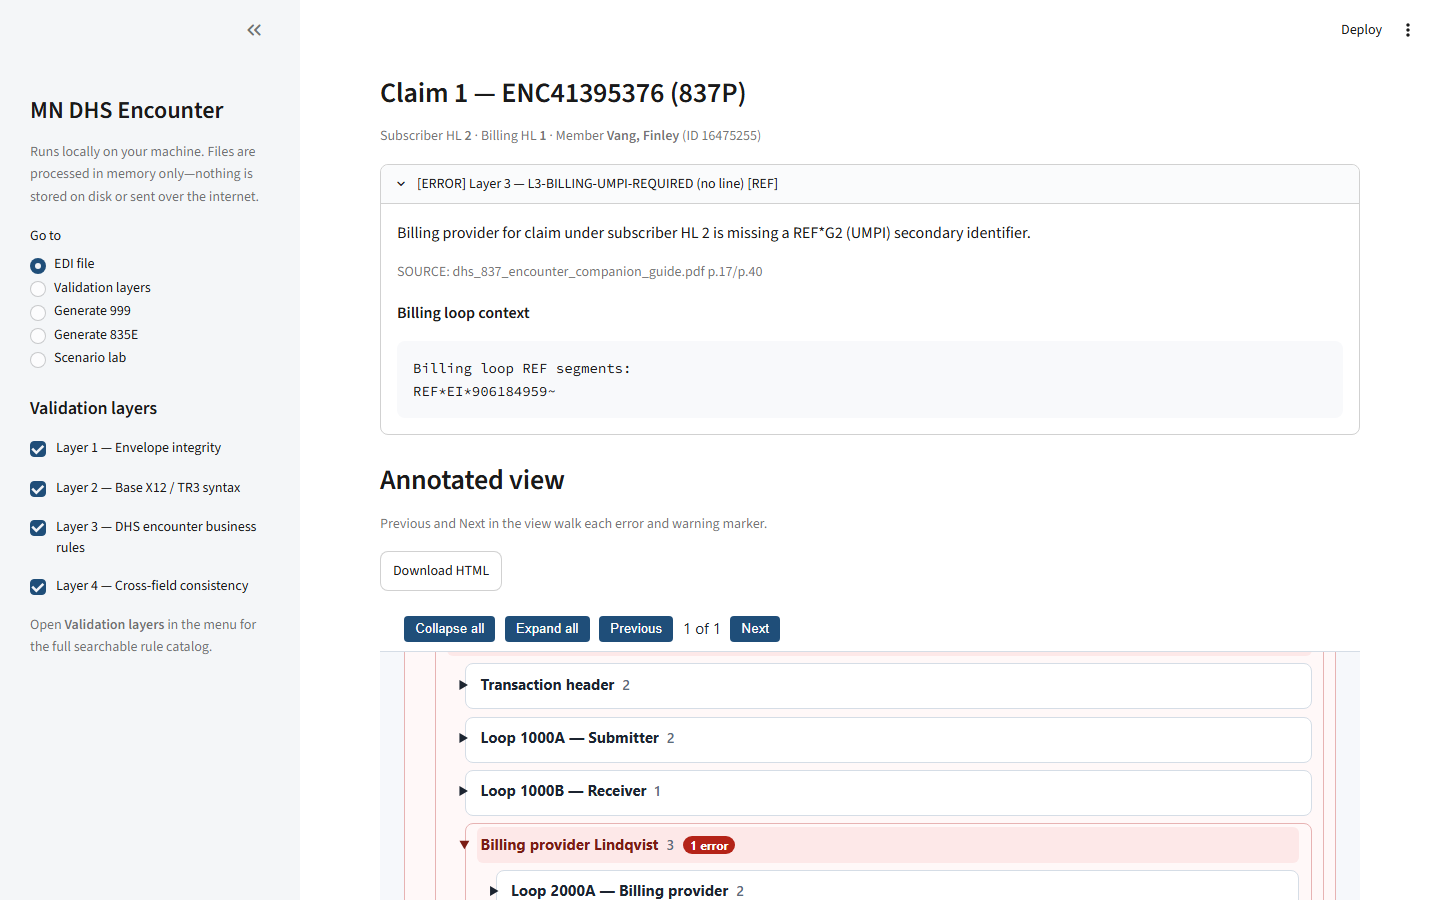
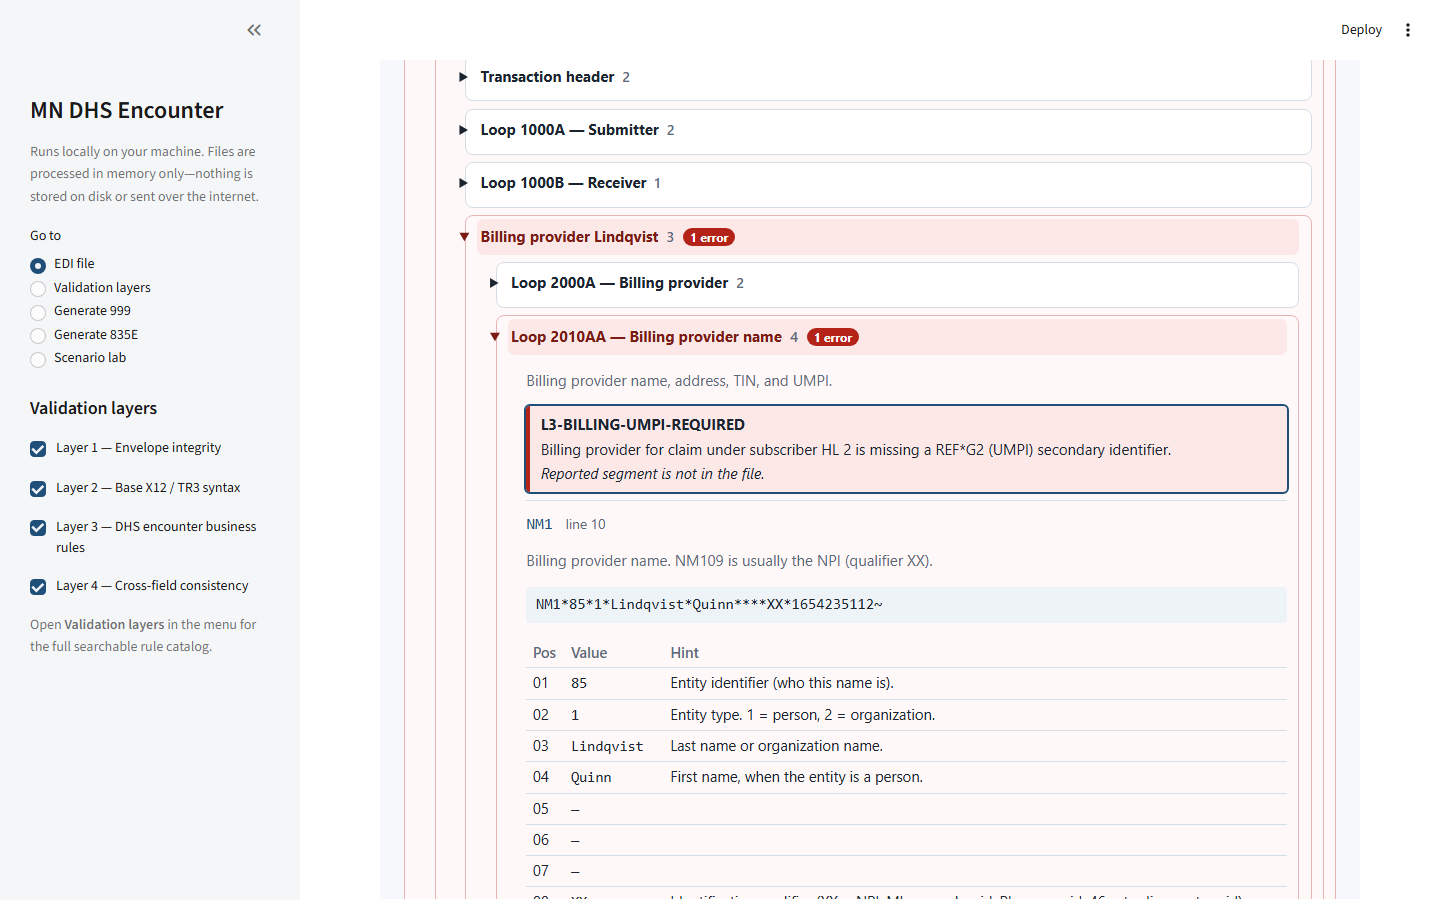
Add a full EDI hierarchy screenshot with the error path open.
The new image shows the nested outline from the functional group through the billing-provider finding.

diff --git a/scripts/capture_portfolio_screenshots.py b/scripts/capture_portfolio_screenshots.py
@@ -48,6 +48,34 @@ def capture_edi_file(page) -> None:
     page.locator('[data-testid="stMain"] iframe').wait_for(timeout=15_000)
     page.wait_for_timeout(1500)
     _screenshot(page, "edi_file_annotated_error.png")
+    _capture_edi_hierarchy(page)
+
+
+def _capture_edi_hierarchy(page) -> None:
+    """Same upload, with every level on the error path opened through the finding."""
+    frame = page.frame_locator('[data-testid="stMain"] iframe')
+    frame.locator("details.billing").first.wait_for(timeout=15_000)
+    height = frame.locator("body").evaluate(
+        """() => {
+          document.querySelectorAll('details.loop').forEach((node) => { node.open = false; });
+          document.querySelectorAll('details.has-error').forEach((node) => { node.open = true; });
+          window.scrollTo(0, 0);
+          return Math.ceil(document.body.scrollHeight) + 24;
+        }"""
+    )
+    page.set_viewport_size({"width": 1280, "height": max(int(height) + 80, 900)})
+    iframe = page.locator('[data-testid="stMain"] iframe')
+    iframe.evaluate(
+        """(node, nextHeight) => {
+          node.style.height = nextHeight + 'px';
+          node.scrollIntoView({block: 'start'});
+        }""",
+        height,
+    )
+    page.wait_for_timeout(500)
+    iframe.screenshot(path=str(IMAGES / "edi_file_hierarchy.png"))
+    page.set_viewport_size({"width": 1440, "height": 900})
+    print(f"Wrote {(IMAGES / 'edi_file_hierarchy.png').relative_to(ROOT)}")
 
 
 def capture_validation_layers(page) -> None:

diff --git a/README.md b/README.md
@@ -62,13 +62,17 @@ custom, dependency-free X12 engine.
 
 Captured after real UI actions (see [`docs/images/README.md`](docs/images/README.md) to regenerate).
 
-| EDI file — annotated error on upload | Validation layers — rules can be turned off |
+| EDI file — annotated error on upload | EDI file — hierarchical outline of that upload |
 |:---:|:---:|
-| ![EDI file](docs/images/edi_file_annotated_error.png) | ![Validation layers](docs/images/validation_layers_enabled_rules.png) |
+| ![EDI file](docs/images/edi_file_annotated_error.png) | ![EDI hierarchy](docs/images/edi_file_hierarchy.png) |
 
-| Scenario lab — batch generated | Generate 999 — preview after upload |
+| Validation layers — rules can be turned off | Scenario lab — batch generated |
 |:---:|:---:|
-| ![Scenario lab](docs/images/scenario_lab_batch_generated.png) | ![Generate 999](docs/images/generate_999_preview.png) |
+| ![Validation layers](docs/images/validation_layers_enabled_rules.png) | ![Scenario lab](docs/images/scenario_lab_batch_generated.png) |
+
+| Generate 999 — preview after upload |
+|:---:|
+| ![Generate 999](docs/images/generate_999_preview.png) |
 
 ### Quick start
 

diff --git a/docs/images/README.md b/docs/images/README.md
@@ -5,6 +5,7 @@ Portfolio images captured **after real interactions** (not empty page loads).
 | File | Interaction |
 |------|-------------|
 | `edi_file_annotated_error.png` | Upload `examples/err_missing_umpi.x12` on **EDI file** → findings plus the annotated outline with the error still colored |
+| `edi_file_hierarchy.png` | Same upload, with the error path opened from the functional group through the billing-provider loop that holds the finding |
 | `validation_layers_enabled_rules.png` | Layer 3 rule table with **Enabled** checkboxes (all rules on until one is unchecked) |
 | `scenario_lab_batch_generated.png` | Select `clean_professional_original`, generate batch → download ready |
 | `generate_999_preview.png` | Upload `examples/clean_batch.x12`, deterministic 999 → preview + download |
